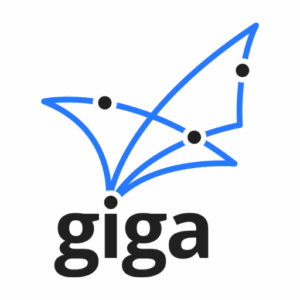
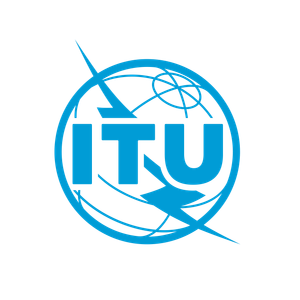
Replace the Giga and UNICEF branding with the ITU emblem
The sandbox now carries only the ITU logo. The masthead, dashboard topbar
and login page render the ITU emblem in place of the Giga / UNICEF lockup,
and the favicon, Apple touch icon and social-preview image are regenerated
from it. The emblem is the SVG that itu.int serves from its own masterpage,
filled with the ITU BrandHub primary blue (RGB 009CD6, Pantone 299C); the
BrandHub's downloadable kit files sit on the ITU intranet behind staff login.

The product is called the ITU Skills Marketplace everywhere users read it:
page titles, the site description, the footer line, the knowledgebase, the
showcase metadata and the education portal footer. The README, contributing
guide, Makefile, package and chart descriptions, the FastAPI title and the
CI container name follow, and the showcase localStorage namespace becomes
itu.showcase.

Live infrastructure identifiers are unchanged on purpose: the GitHub
repository slug, the Kubernetes namespace and Helm release, the image and
secret names, and the giga-staging.igrant.io domain. Renaming those would
create a parallel deployment and orphan the existing one.

Changed region(s): [[0.12, 0.06, 0.87, 0.93]]

diff --git a/web/app/knowledgebase/page.tsx b/web/app/knowledgebase/page.tsx
@@ -2,9 +2,9 @@ import Link from "next/link";
 import { REPO_URL } from "@/components/nav-links";
 
 export const metadata = {
-  title: "Introduction · Knowledgebase · Giga Skills Marketplace",
+  title: "Introduction · Knowledgebase · ITU Skills Marketplace",
   description:
-    "What the Giga Skills Marketplace is, who it is for, and where to start in the documentation.",
+    "What the ITU Skills Marketplace is, who it is for, and where to start in the documentation.",
 };
 
 export default function IntroductionPage() {
@@ -12,7 +12,7 @@ export default function IntroductionPage() {
     <>
       <h1>Introduction</h1>
       <p className="docs-lead">
-        The Giga Skills Marketplace is a catalog of provider-published, agent-agnostic{" "}
+        The ITU Skills Marketplace is a catalog of provider-published, agent-agnostic{" "}
         <strong>skills</strong> for the education wallet building block. Wallet solution providers
         publish skills from their public GitHub repositories; every submission passes automated
         checks and human review; anyone can install a published skill into their own AI coding
@@ -99,9 +99,9 @@ export default function IntroductionPage() {
         The marketplace and the education showcase are open source under the Apache 2.0 license. The
         source code, the deployment charts, and the contribution guide live in the{" "}
         <a href={REPO_URL} target="_blank" rel="noopener">
-          giga-skills-marketplace
+          project repository
         </a>{" "}
-        repository on GitHub, built for the ITU/UNICEF Giga initiative. Issues and pull requests are
+        on GitHub, built for the ITU education wallet building block. Issues and pull requests are
         welcome there.
       </p>
     </>

diff --git a/web/tests/e2e/showcase.spec.ts b/web/tests/e2e/showcase.spec.ts
@@ -7,7 +7,7 @@ import { expect, test, type Page } from "@playwright/test";
  * verification) need a phone Wallet and OWS webhooks, so they stay manual.
  */
 
-const NS = "giga.showcase.";
+const NS = "itu.showcase.";
 
 /**
  * Seed showcase state exactly once, from a lightweight same-origin page.
@@ -75,7 +75,7 @@ const APPLICATION = {
 test("showcase landing shares the marketplace chrome", async ({ page }) => {
   await page.goto("/showcase");
   // The site masthead is present, with the Showcases entry highlighted.
-  await expect(page.getByRole("link", { name: "Giga home" })).toBeVisible();
+  await expect(page.getByRole("link", { name: "ITU home" })).toBeVisible();
   await expect(page.getByRole("navigation", { name: "Primary" })).toBeVisible();
   await expect(
     page.getByRole("heading", { name: /National Learner Registry & Education Wallet/ }),
@@ -85,11 +85,11 @@ test("showcase landing shares the marketplace chrome", async ({ page }) => {
 
 test("portals render their own chrome without the masthead", async ({ page }) => {
   await page.goto("/showcase/education");
-  await expect(page.getByRole("link", { name: "Giga home" })).toHaveCount(0);
+  await expect(page.getByRole("link", { name: "ITU home" })).toHaveCount(0);
   await expect(page.locator(".edu-header")).toBeVisible();
 
   await page.goto("/showcase/civicworks");
-  await expect(page.getByRole("link", { name: "Giga home" })).toHaveCount(0);
+  await expect(page.getByRole("link", { name: "ITU home" })).toHaveCount(0);
   await expect(page.locator(".cw-header")).toBeVisible();
 });
 

diff --git a/web/app/globals.css b/web/app/globals.css
@@ -14,7 +14,7 @@
   --font-mono: var(--font-jb-mono);
   --font-heading:
     var(--font-geist-sans), var(--font-inter-latin), ui-sans-serif, system-ui, sans-serif;
-  /* Giga (giga.global) brand tokens: Giga blue on white, near-black ink. */
+  /* Brand tokens: primary blue on white, near-black ink. */
   --color-brand: #0050d6;
   --color-brand-dark: #003ea6;
   /* iGrant.io support-portal panel shading (docs.igrant.io "Build with AI" banner). */
@@ -63,8 +63,8 @@
 }
 
 :root {
-  /* Giga look: white page, near-black ink, Giga-blue primary CTAs (10px radius),
-     Manrope type, light-blue accents. */
+  /* Site look: white page, near-black ink, blue primary CTAs (10px radius),
+     light-blue accents. */
   --background: #ffffff;
   --foreground: #0a0a0a;
   --card: #ffffff;

diff --git a/web/app/layout.tsx b/web/app/layout.tsx
@@ -34,9 +34,9 @@ const interLatinExt = localFont({
 });
 const jetbrainsMono = JetBrains_Mono({ subsets: ["latin"], variable: "--font-jb-mono" });
 
-const TITLE = "Giga Skills Marketplace";
+const TITLE = "ITU Skills Marketplace";
 const DESCRIPTION =
-  "Provider-published, agent-agnostic skill files for the education wallet building block, part of the ITU / UNICEF Giga initiative. Reviewed app-store style and ready to install into any AI coding agent.";
+  "Provider-published, agent-agnostic skill files for the ITU education wallet building block. Reviewed app-store style and ready to install into any AI coding agent.";
 
 export const metadata: Metadata = {
   metadataBase: new URL(process.env.NEXT_PUBLIC_SITE_URL ?? "https://giga-staging.igrant.io"),

diff --git a/web/components/nav.tsx b/web/components/nav.tsx
@@ -36,7 +36,7 @@ export function Nav({ className }: { className?: string }) {
       )}
     >
       <div className="flex min-h-16 items-center gap-3 px-4 md:min-h-20 md:px-8">
-        <Link href="/" className="flex items-center gap-3" aria-label="Giga home">
+        <Link href="/" className="flex items-center gap-3" aria-label="ITU home">
           <Logo className="h-11 md:h-12" />
           <span className="hidden font-heading text-[clamp(1rem,2vw,1.4rem)] font-semibold tracking-tight sm:inline">
             Skills <span className="text-muted-foreground">Marketplace</span>

diff --git a/web/components/dashboard-topbar.tsx b/web/components/dashboard-topbar.tsx
@@ -46,7 +46,7 @@ export function DashboardTopbar({
             {open ? <X className="size-7" /> : <Menu className="size-7" />}
           </button>
         )}
-        <Link href="/" className="flex items-center gap-3" aria-label="Giga home">
+        <Link href="/" className="flex items-center gap-3" aria-label="ITU home">
           <Logo className="h-11 md:h-12" />
           <span className="hidden font-heading text-[clamp(1rem,2vw,1.4rem)] font-semibold tracking-tight sm:inline">
             Skills <span className="text-muted-foreground">Marketplace</span>

diff --git a/web/lib/showcase/store.ts b/web/lib/showcase/store.ts
@@ -11,13 +11,13 @@
  * in the education portal from the same store. The server holds no user
  * state: it is a stateless broker for wallet (OWS) and consent calls.
  *
- * Every key is namespaced `giga.showcase.*` and holds JSON. A version key
+ * Every key is namespaced `itu.showcase.*` and holds JSON. A version key
  * guards the shape: on mismatch the whole namespace is wiped, which is the
  * demo's reset semantics.
  */
 
 const VERSION = "1";
-const NS = "giga.showcase.";
+const NS = "itu.showcase.";
 
 const KEYS = {
   version: `${NS}version`,

diff --git a/web/components/logo.tsx b/web/components/logo.tsx
@@ -1,9 +1,9 @@
 import { cn } from "@/lib/utils";
 
-// The Giga wordmark, served from /public/giga-logo.svg.
+// The ITU emblem, served from /public/itu-logo.svg.
 export function Logo({ className }: { className?: string }) {
   return (
     // eslint-disable-next-line @next/next/no-img-element -- static brand SVG
-    <img src="/giga-logo.svg" alt="Giga" className={cn("h-9 w-auto", className)} />
+    <img src="/itu-logo.svg" alt="ITU" className={cn("h-9 w-auto", className)} />
   );
 }

diff --git a/web/components/footer.tsx b/web/components/footer.tsx
@@ -18,7 +18,7 @@ export function Footer({ className }: { className?: string }) {
         className,
       )}
     >
-      <p className="m-0">© 2026 ITU / UNICEF Giga · Education Wallet Building Block</p>
+      <p className="m-0">© 2026 ITU · Education Wallet Building Block</p>
       <nav aria-label="Footer" className="flex flex-wrap items-center gap-3">
         {LINKS.map((l, i) => (
           <span key={l.href} className="flex items-center gap-3">

diff --git a/web/app/knowledgebase/showcase-build-guide/page.tsx b/web/app/knowledgebase/showcase-build-guide/page.tsx
@@ -1,7 +1,7 @@
 import Link from "next/link";
 
 export const metadata = {
-  title: "How it was built with skills · Knowledgebase · Giga Skills Marketplace",
+  title: "How it was built with skills · Knowledgebase · ITU Skills Marketplace",
   description:
     "A guide for integrators: how the education showcase was built by an AI coding agent using the skills from this marketplace, which skill served which step, and the prompts that drove them.",
 };

diff --git a/web/app/showcase/layout.tsx b/web/app/showcase/layout.tsx
@@ -6,7 +6,7 @@ import "./showcase.css";
 
 const TITLE = "National Learner Registry & Education Wallet Showcase";
 const DESCRIPTION =
-  "ITU/Giga education use case showcase: learner registration, credential issuance, wallet storage and third-party verification.";
+  "ITU education use case showcase: learner registration, credential issuance, wallet storage and third-party verification.";
 
 export const metadata: Metadata = {
   title: TITLE,

diff --git a/web/app/knowledgebase/showcase-credentials/page.tsx b/web/app/knowledgebase/showcase-credentials/page.tsx
@@ -1,7 +1,7 @@
 import Link from "next/link";
 
 export const metadata = {
-  title: "Credentials and presentations · Knowledgebase · Giga Skills Marketplace",
+  title: "Credentials and presentations · Knowledgebase · ITU Skills Marketplace",
   description:
     "The exact credential and presentation definitions behind the education showcase: types, claims, formats, trust anchors and revocation.",
 };
